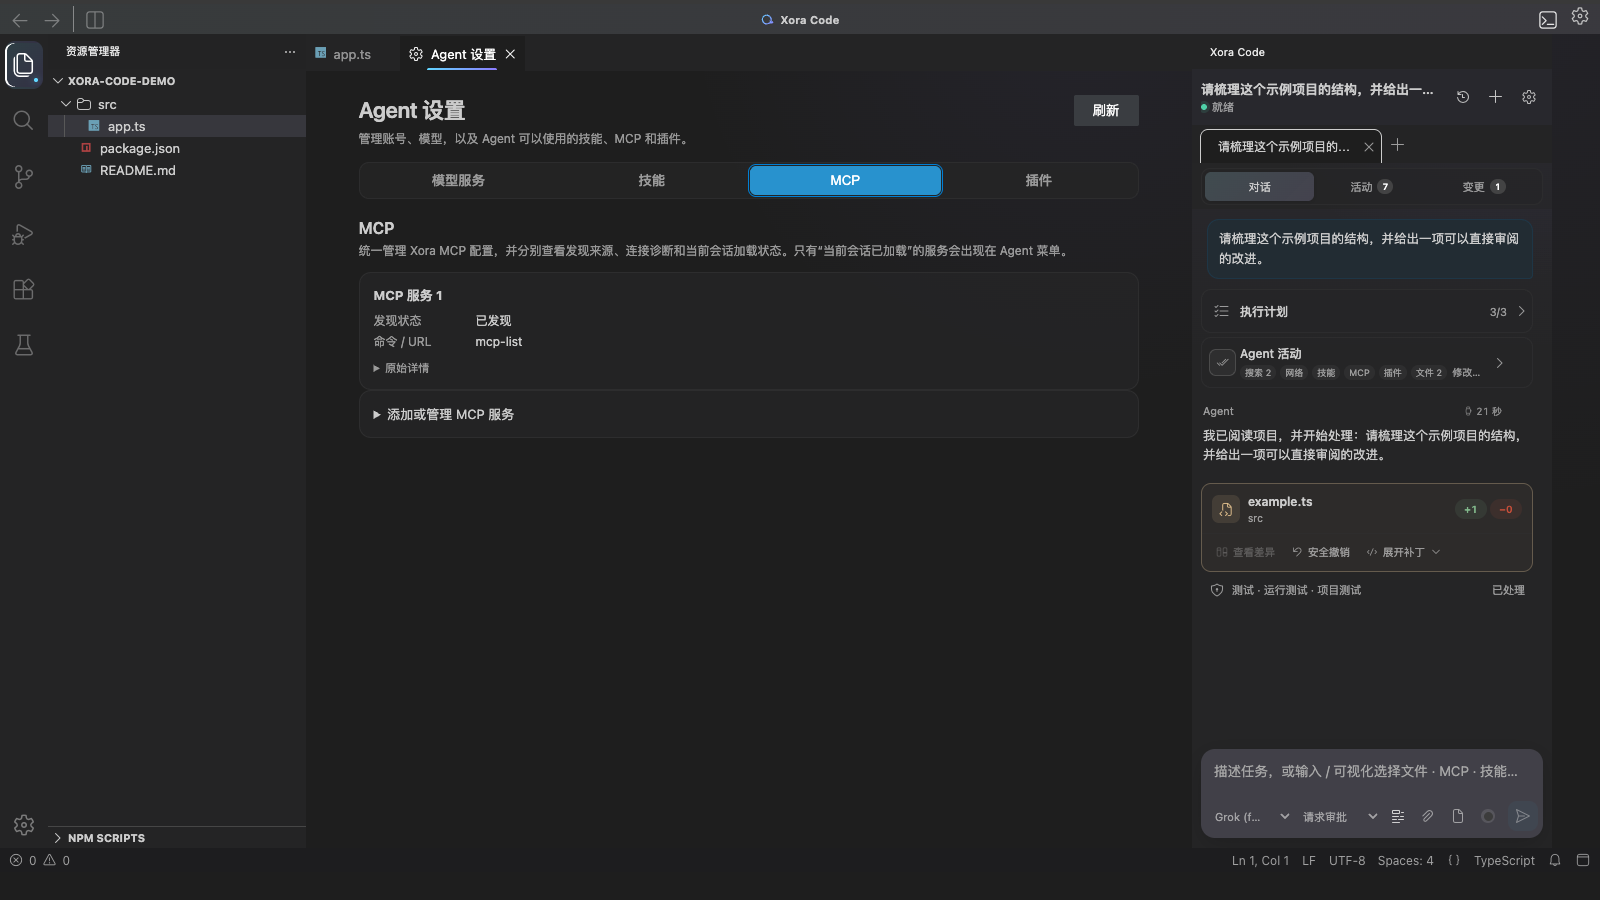
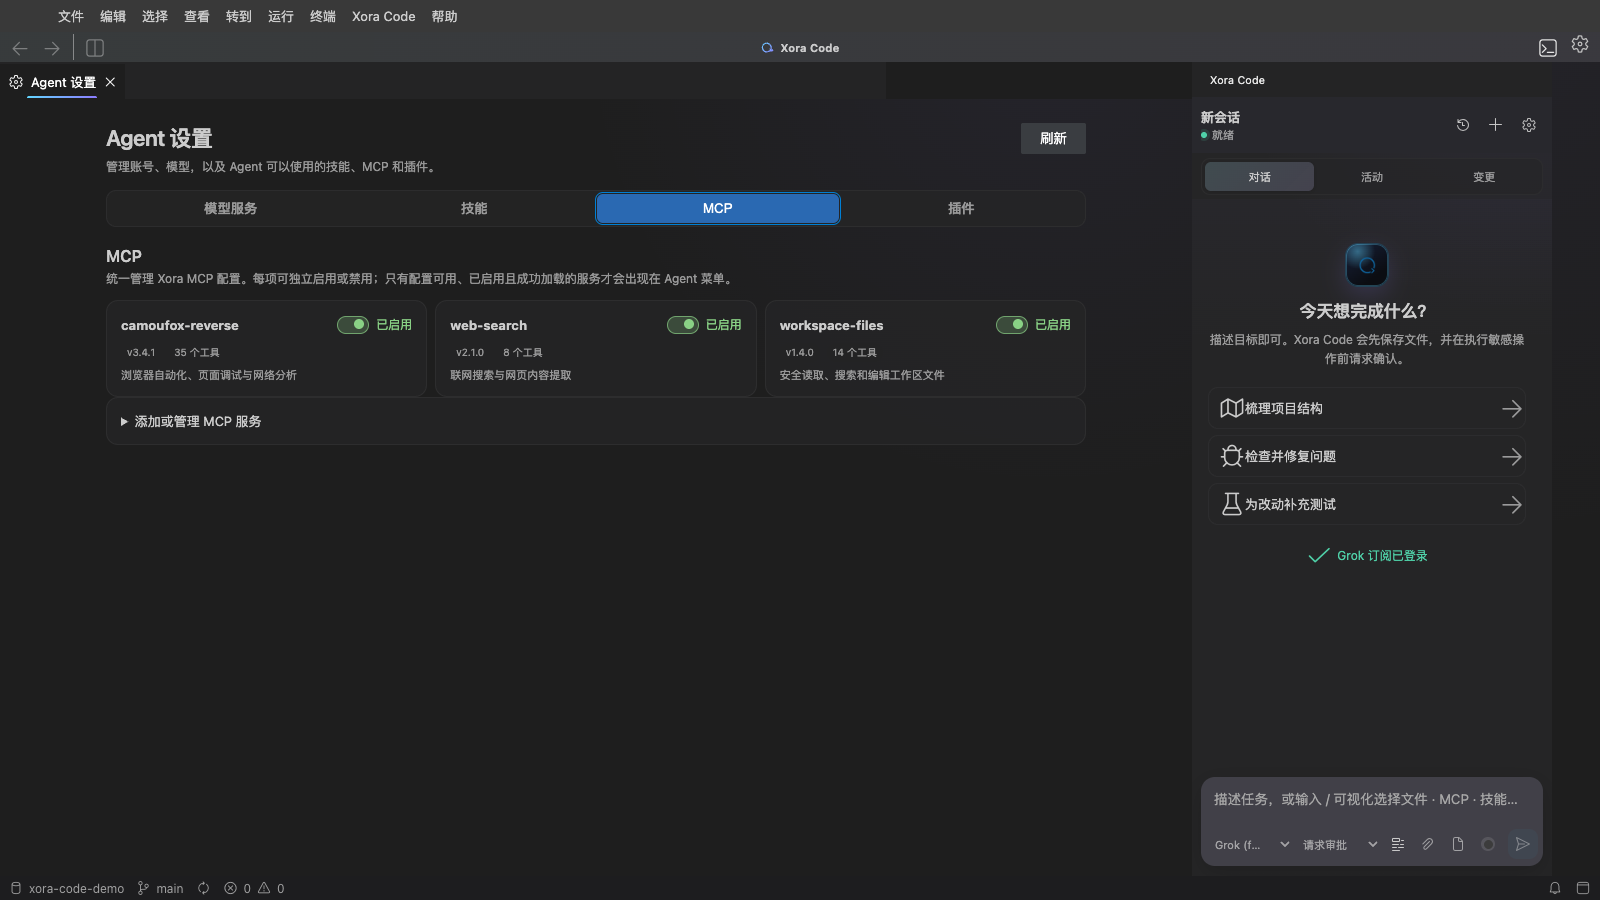
release: prepare Xora Code 0.2.4 preview

diff --git a/theia-extensions/xora-agent/src/electron-main/grok-agent-host-service.ts b/theia-extensions/xora-agent/src/electron-main/grok-agent-host-service.ts
@@ -518,7 +518,7 @@ export class GrokAgentHostService implements AgentHostService {
                     fs: { readTextFile: false, writeTextFile: false },
                     terminal: false
                 },
-                clientInfo: { name: 'Xora Code', title: 'Xora Code', version: '0.2.3' },
+                clientInfo: { name: 'Xora Code', title: 'Xora Code', version: '0.2.4' },
                 _meta: {
                     startupHints: {
                         nonInteractive: true,
@@ -526,7 +526,7 @@ export class GrokAgentHostService implements AgentHostService {
                         skipProjectLayout: true
                     },
                     clientType: 'xora-code-desktop',
-                    clientVersion: '0.2.3'
+                    clientVersion: '0.2.4'
                 }
             }, { timeoutMs: ACP_INITIALIZE_TIMEOUT_MS });
             if (generation !== this.runtimeGeneration) {

diff --git a/theia-extensions/xora-agent/src/browser/agent-management-widget.tsx b/theia-extensions/xora-agent/src/browser/agent-management-widget.tsx
@@ -288,6 +288,21 @@ export class AgentManagementWidget extends ReactWidget {
         this.node.tabIndex = 0;
     }
 
+    protected override onAfterAttach(message: Message): void {
+        super.onAfterAttach(message);
+        // A widget restored from Theia's saved layout is attached without an
+        // activation request. Render the local shell immediately so the main
+        // area can never reopen as a blank page, then refresh remote/runtime
+        // data outside the startup critical path. A simultaneous command-open
+        // activation is coalesced by refreshInFlight below.
+        this.update();
+        queueMicrotask(() => {
+            if (!this.isDisposed && this.isAttached) {
+                void this.refresh();
+            }
+        });
+    }
+
     protected override onActivateRequest(message: Message): void {
         super.onActivateRequest(message);
         this.node.focus();

diff --git a/docs/architecture/online-update-strategy.md b/docs/architecture/online-update-strategy.md
@@ -1,0 +1,193 @@
+# Xora Code 在线更新与版本服务设计
+
+本文定义 Xora Code 桌面应用、Grok Build 组件、GitHub Release 镜像和
+`xora-code.com` 版本站点的更新策略。目标是让更新检查与下载始终位于
+IDE 启动、项目加载和 Agent 会话之外；任何网络、域名或服务端故障都不能
+影响用户继续使用当前已安装版本。
+
+## 1. 产品原则
+
+1. **当前版本永远可用**：更新服务失败只写入本地脱敏日志，不弹错误框，
+   不阻塞窗口、项目、Agent Runtime、登录、MCP 或 Skills。
+2. **每个新版本只主动提醒一次**：自动检查发现 `0.2.4` 时最多展示一次。
+   用户选择“暂不更新”后，不再为 `0.2.4` 主动提示；`0.2.5` 发布后可以
+   再提示一次。用户仍可随时从“关于 / 检查更新”手动查看。
+3. **不抢占正在进行的工作**：更新可以在后台下载，但不会自动关闭窗口、
+   终止 Agent、取消终端或重放 Prompt。安装必须由用户确认，默认在退出后
+   或下次启动时完成。
+4. **两个独立更新域**：桌面应用和 Grok Build sidecar 继续使用独立的
+   Ed25519 密钥、清单、序列号与回滚规则。更新桌面应用不会绕过 sidecar
+   的兼容性门禁。
+5. **签名清单是唯一发布事实**：网页、GitHub Release 和镜像都只是分发面。
+   客户端只接受由内嵌公钥验证通过、sequence 不倒退、版本和平台匹配的
+   规范化 JSON 清单。
+
+## 2. 域名与存储布局
+
+建议将展示站和更新静态源分离：
+
+```text
+xora-code.com
+├── /                         产品介绍
+├── /download                 当前稳定版下载
+├── /docs                     使用说明
+└── /releases                 历史版本与变更说明
+
+updates.xora-code.com
+└── /v1
+    ├── channels
+    │   ├── stable.json       已签名桌面应用清单
+    │   └── beta.json
+    ├── sidecar
+    │   └── stable.json       已签名 Grok Build 清单
+    └── releases
+        └── 0.2.4
+            ├── darwin-arm64/...
+            ├── darwin-x64/...
+            ├── win32-x64/...
+            ├── linux-x64/...
+            ├── SHA256SUMS.txt
+            └── release-notes.zh-CN.md
+```
+
+`updates.xora-code.com` 应只提供不可变静态文件。首选 Cloudflare R2 或其他
+对象存储作为源站；现有新加坡服务器可以作为 Nginx 只读源站和同步节点，
+但不应让客户端依赖动态数据库或单个 API 进程。Cloudflare 缓存清单时使用
+较短 TTL，版本目录使用 `immutable` 长缓存。
+
+发布流程同时上传 GitHub Release。域名源不可用时，客户端回退读取 GitHub
+Release 中同名的已签名清单；两个来源的清单签名和 artifact hash 必须相同。
+网页下载链接也可在主源不可用时回退到 GitHub。
+
+## 3. 客户端检查状态机
+
+```text
+应用可交互
+    │
+    ├─ 延迟 10~30 秒并加入随机抖动
+    │
+    └─ 后台检查（4 秒连接 / 10 秒总超时）
+          ├─ 主清单成功且签名有效 ── 比较版本
+          ├─ 主清单不可达 ───────── GitHub 签名清单回退
+          └─ 全部失败 ───────────── 静默结束并指数退避
+
+发现新版本
+    ├─ 已提醒/已跳过同一版本 ───── 不再主动提示
+    └─ 第一次发现该版本 ───────── 显示一次轻量提醒
+          ├─ 查看更新内容
+          ├─ 后台下载
+          └─ 暂不更新（仅跳过当前版本）
+```
+
+建议检查节奏：
+
+- 首次检查：应用进入可交互状态后 10～30 秒，不进入启动关键路径。
+- 后续检查：每 24 小时一次并加入随机抖动，避免所有客户端同时访问。
+- 失败退避：1 小时、6 小时、24 小时；成功后恢复正常周期。
+- 手动检查：无视本次会话退避，但仍受超时、签名和响应大小限制。
+- 服务端返回 `429` 或 `Retry-After` 时遵守服务端间隔。
+
+本地只持久化非敏感状态：
+
+```json
+{
+  "schemaVersion": 1,
+  "channel": "stable",
+  "lastSuccessfulCheckAt": "2026-07-29T00:00:00.000Z",
+  "lastPromptedVersion": "0.2.4",
+  "skippedVersion": "0.2.4",
+  "downloadedVersion": null,
+  "minimumAcceptedSequence": 4
+}
+```
+
+`lastPromptedVersion` 保证一次性提醒；版本号变化后自然允许再次提醒。自动
+检查失败不得修改它，否则临时故障可能吞掉未来提醒。
+
+## 4. 下载与安装
+
+推荐使用 `electron-updater` 适配现有 electron-builder 产物，但在调用平台
+安装器前增加 Xora 自己的签名清单门禁：
+
+1. 验证 JCS + Ed25519 应用清单、sequence、channel、平台、架构和版本。
+2. 后台下载到应用数据目录的 staging，不写入项目或 `~/.grok`。
+3. 校验签名清单中的大小与 SHA-256，并让 electron-updater 继续校验
+   electron-builder 的 SHA-512 元数据。
+4. 校验平台签名：macOS Developer ID + notarization，Windows
+   Authenticode；Linux 至少验证 Xora Ed25519 清单，deb 额外提供 GPG。
+5. 下载成功只显示“重启后更新 / 稍后”，不自动退出当前应用。
+6. 用户确认后先完成 Save All，等待或明确取消活跃 Agent/终端，再调用
+   平台安装流程。绝不自动重放未完成的 Prompt。
+
+平台边界：
+
+| 平台 | 推荐自动更新产物 | 行为 |
+| --- | --- | --- |
+| macOS | DMG + ZIP | ZIP 供 updater 使用，DMG 供人工下载；必须 Developer ID 签名和公证 |
+| Windows | NSIS | 后台下载，退出后由 NSIS 安装；必须 Authenticode 签名 |
+| Linux AppImage | AppImage | 可原位更新并保留上一稳定文件 |
+| Linux deb | deb | 默认提醒并下载，由包管理器确认安装，不静默提权 |
+
+当前 `0.2.3` 稳定包和 `0.2.4` 预览包都没有正式平台商业签名，因此只能
+作为手动下载版本，不能直接启用可信自动安装。应先配置 Apple、Windows、Linux GPG 与应用
+Ed25519 发布密钥，再打开生产更新开关。
+
+## 5. 发布、灰度与回退
+
+- CI 在三种原生 runner 上构建，生成平台安装包、`latest*.yml`、SBOM、
+  SHA-256 和两套独立签名清单。
+- 发布必须先进入 staging，完成干净虚拟机安装/升级、签名、ACP initialize、
+  登录保持、会话恢复和进程清理验证。
+- 稳定清单使用单调 sequence；同一 sequence 不允许覆盖文件。
+- 支持 `rolloutPercentage` 灰度发布。客户端以本地随机 ID 和版本 salt
+  稳定分桶，不上传设备标识。
+- 撤回坏版本时停止扩大灰度并发布更高版本号；不重写或删除已经签名的旧
+  清单。保留当前稳定版和上一稳定版供人工回退。
+- 数据迁移使用独立 `dataCompatEpoch`。迁移前备份，epoch 变化时禁止静默
+  降级，必须由桌面应用明确提示。
+
+## 6. 服务端故障与安全边界
+
+- 客户端只访问无凭据 HTTPS URL，限制重定向仍为 HTTPS，并限制清单大小。
+- 清单、说明站、GitHub、DNS 或新加坡服务器任意故障都不能改变当前应用
+  状态；不得因更新失败重启 Electron 或 Grok sidecar。
+- 已下载文件必须先验签再进入“可安装”状态；校验失败立即删除 staging，
+  只在用户打开“更新详情”时显示原因。
+- 更新日志不得记录授权头、Cookie、API Key、机器用户名、项目路径或
+  `~/.grok` 内容。
+- Cloudflare/WAF 只做缓存、限速和 DDoS 防护，不能替代客户端签名验证。
+
+## 7. 分阶段实施
+
+### 阶段 A：安全提醒
+
+- 发布 `stable.json` 与历史版本页。
+- 应用后台检查、一次性版本提醒、手动“检查更新”。
+- 服务端或 GitHub 不可用时静默失败。
+
+### 阶段 B：后台下载
+
+- 接入 electron-updater。
+- 增加进度、取消、断点续传、staging 与 hash 校验。
+- 下载完成后由用户选择重启安装。
+
+### 阶段 C：生产自动更新
+
+- 配齐 Apple Developer ID + notarization、Windows Authenticode、
+  Linux GPG、应用和 sidecar 两套 Ed25519 密钥。
+- 完成灰度、回滚、健康标记和跨版本数据迁移测试后，才允许稳定通道默认
+  开启在线安装。
+
+## 8. 站点与服务器建议
+
+新加坡服务器只需承担静态源站和同步任务：
+
+- Nginx 只读托管 `/srv/xora-code/releases`，禁止目录写入 API。
+- 发布用户使用独立 SSH key、最小目录权限和原子目录切换。
+- CI 先上传到临时目录，核对 hash 与签名，再原子更新 channel 清单。
+- Cloudflare 开启 Origin Certificate、强制 HTTPS、缓存不可变产物。
+- 每小时从 GitHub Release 或发布存储做完整性巡检，发现差异只告警，
+  不自动覆盖已签名清单。
+
+产品介绍和使用说明可以独立部署到 `xora-code.com`，版本下载清单仍保持
+纯静态与可镜像，使网页维护或服务端升级不会影响桌面应用更新检查。
